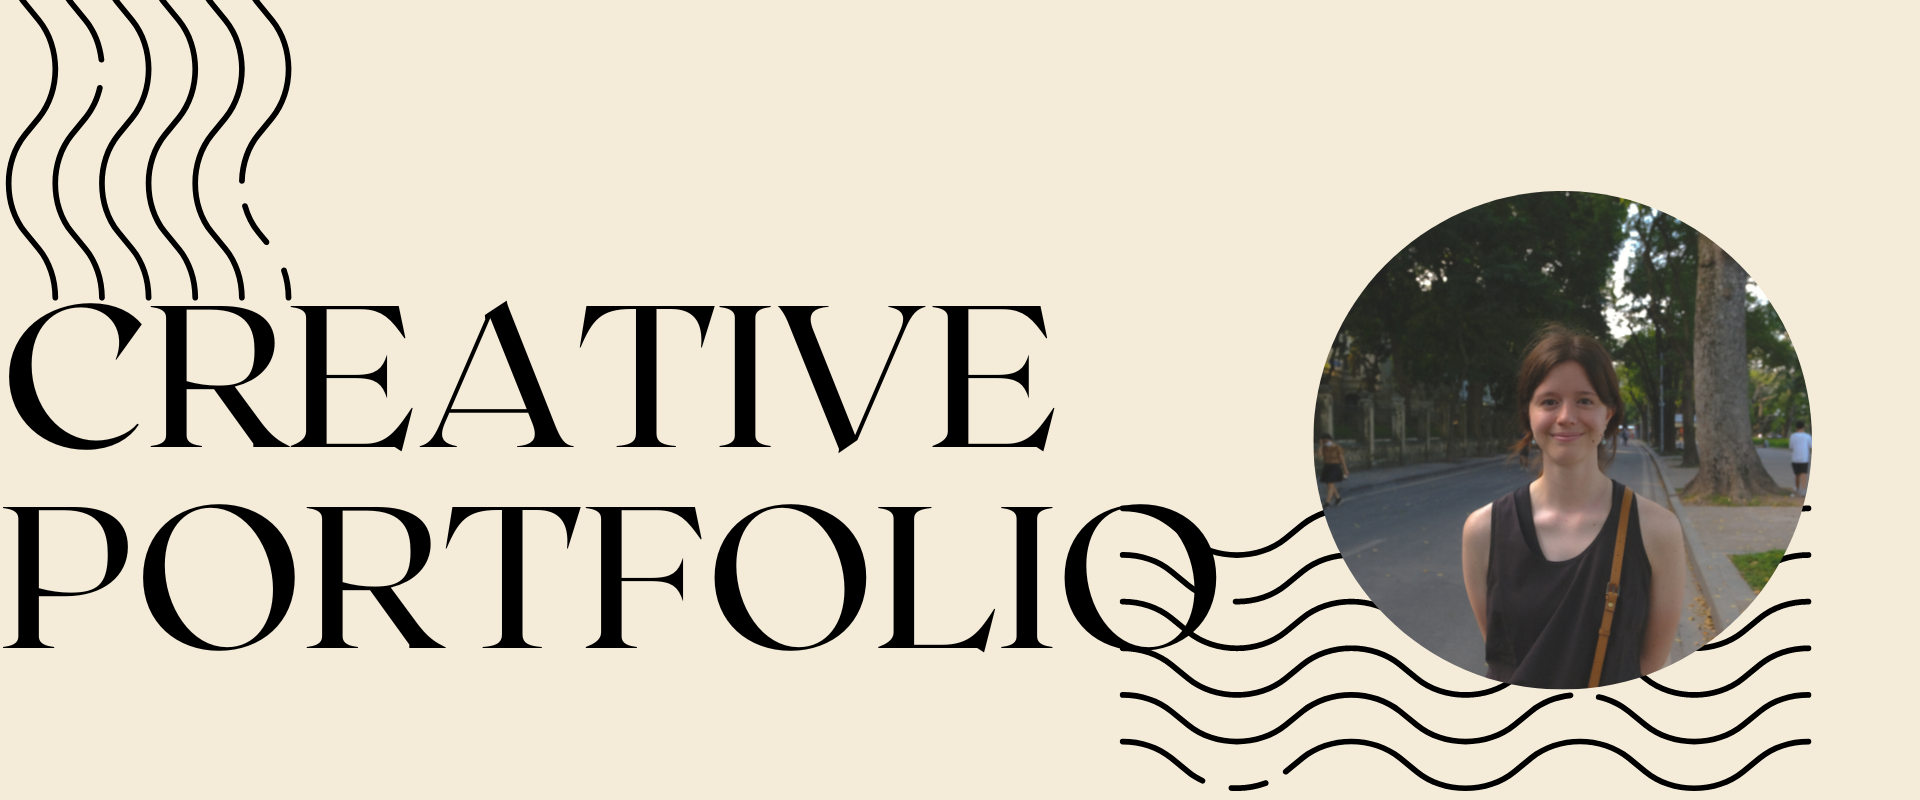
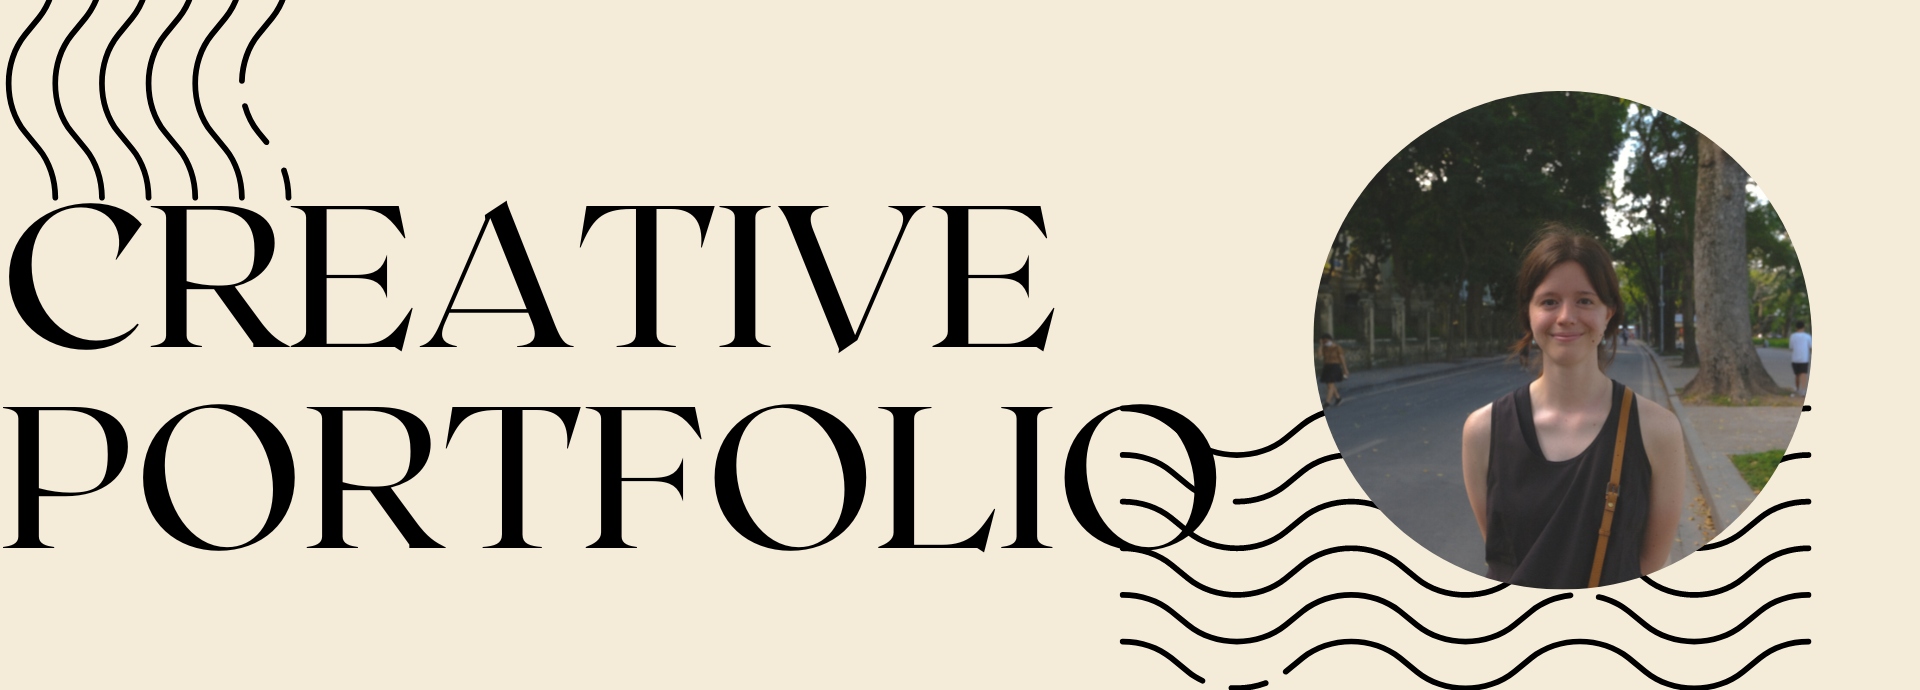
update landing page to view without scroll

Changed region(s): [[0.0, 0.0, 0.9688, 1.0], [0.3125, 0.7913, 0.3438, 0.8217], [0.0, 0.7913, 0.0312, 0.8217]]

diff --git a/layouts/index.html b/layouts/index.html
@@ -6,16 +6,18 @@
 	<meta http-equiv="refresh" content="0; URL={{ relref . .Site.Params.Homepage }}" />
 </head>
 {{/* {{ else if eq .type "mobile" }}
-<section class="hero is-fullheight welcome-mobile">
-	<div class="hero-body has-text-centered">
-		<div class="container" style="position:relative">
-			<div class="enter" style="position:absolute; right: 10em;">
+<section>
+	<div class="container" style="position:relative">
+		<img src="/landing.png" alt="landing page saying creative portfolio and introducing an image of Emily">
+		<div style="display:inline-block">
+			<h1>Hi! I'm Emily - a graphic designer.</h1>
+			<div class="enter">
 				<button onclick="window.location.href='{{ relref . .Site.Params.Homepage }}'"
-					class="button is-black is-large is-outlined">enter</button>
+					class="button is-black is-large">enter</button>
 			</div>
 		</div>
 	</div>
-	<div class="welcome-end">
+	<div>
 		{{ partial "footer_base.html" . }}
 	</div>
 </section> */}}
@@ -23,9 +25,9 @@
 {{/* {{ partial "navbar.html" . }} */}}
 <section>
 	<div class="container" style="position:relative">
-		<img src="/landing.png" alt="landing page saying creative portfolio and introducing an image of Emily">
+		<img src="/landing3.png" alt="landing page saying creative portfolio and introducing an image of Emily">
 		<div style="display:inline-block">
-			<h1>Hi! I'm Emily - a graphic designer.</h1>
+			<h1 class="remove-margin">Hi! I'm Emily - a graphic designer.</h1>
 			<div class="enter">
 				<button onclick="window.location.href='{{ relref . .Site.Params.Homepage }}'"
 					class="button is-black is-large is-outlined">enter</button>

diff --git a/static/css/style.css b/static/css/style.css
@@ -75,9 +75,13 @@
     width: var(--desktop-work-width);
 }
 
+.remove-margin {
+    margin: 0;
+}
+
 .enter {
     display: grid;
-    margin-top: 50px;
+    margin-top: 35px;
     justify-content: center;
 }
 
@@ -87,6 +91,7 @@
     width: 170px;
     opacity: 0.9 !important;
     font-size: 2.3em;
+    border-width: 4px;
 }
 
 .enter>div.warn>span.warn {

diff --git a/content/work/web/town-wireframe2.md b/content/work/web/town-wireframe2.md
@@ -1,4 +1,4 @@
----
+<!-- ---
 index: 2
 weight: 1
 images:
@@ -15,4 +15,4 @@ tags:
 
 I created a website wireframe for the homepage of a mock restaurant called TOWN. Images are taken from Unsplash and Pexels.
 
-Here is the final website result: <a target="_blank" href="https://town-restaurant-nyc.netlify.app/" style="color: var(--main);" onmouseover="this.style.color='var(--dark)'" onmouseout="this.style.color='var(--main)'">town-restaurant-nyc.netlify.app</a>
+Here is the final website result: <a target="_blank" href="https://town-restaurant-nyc.netlify.app/" style="color: var(--main);" onmouseover="this.style.color='var(--dark)'" onmouseout="this.style.color='var(--main)'">town-restaurant-nyc.netlify.app</a> -->
